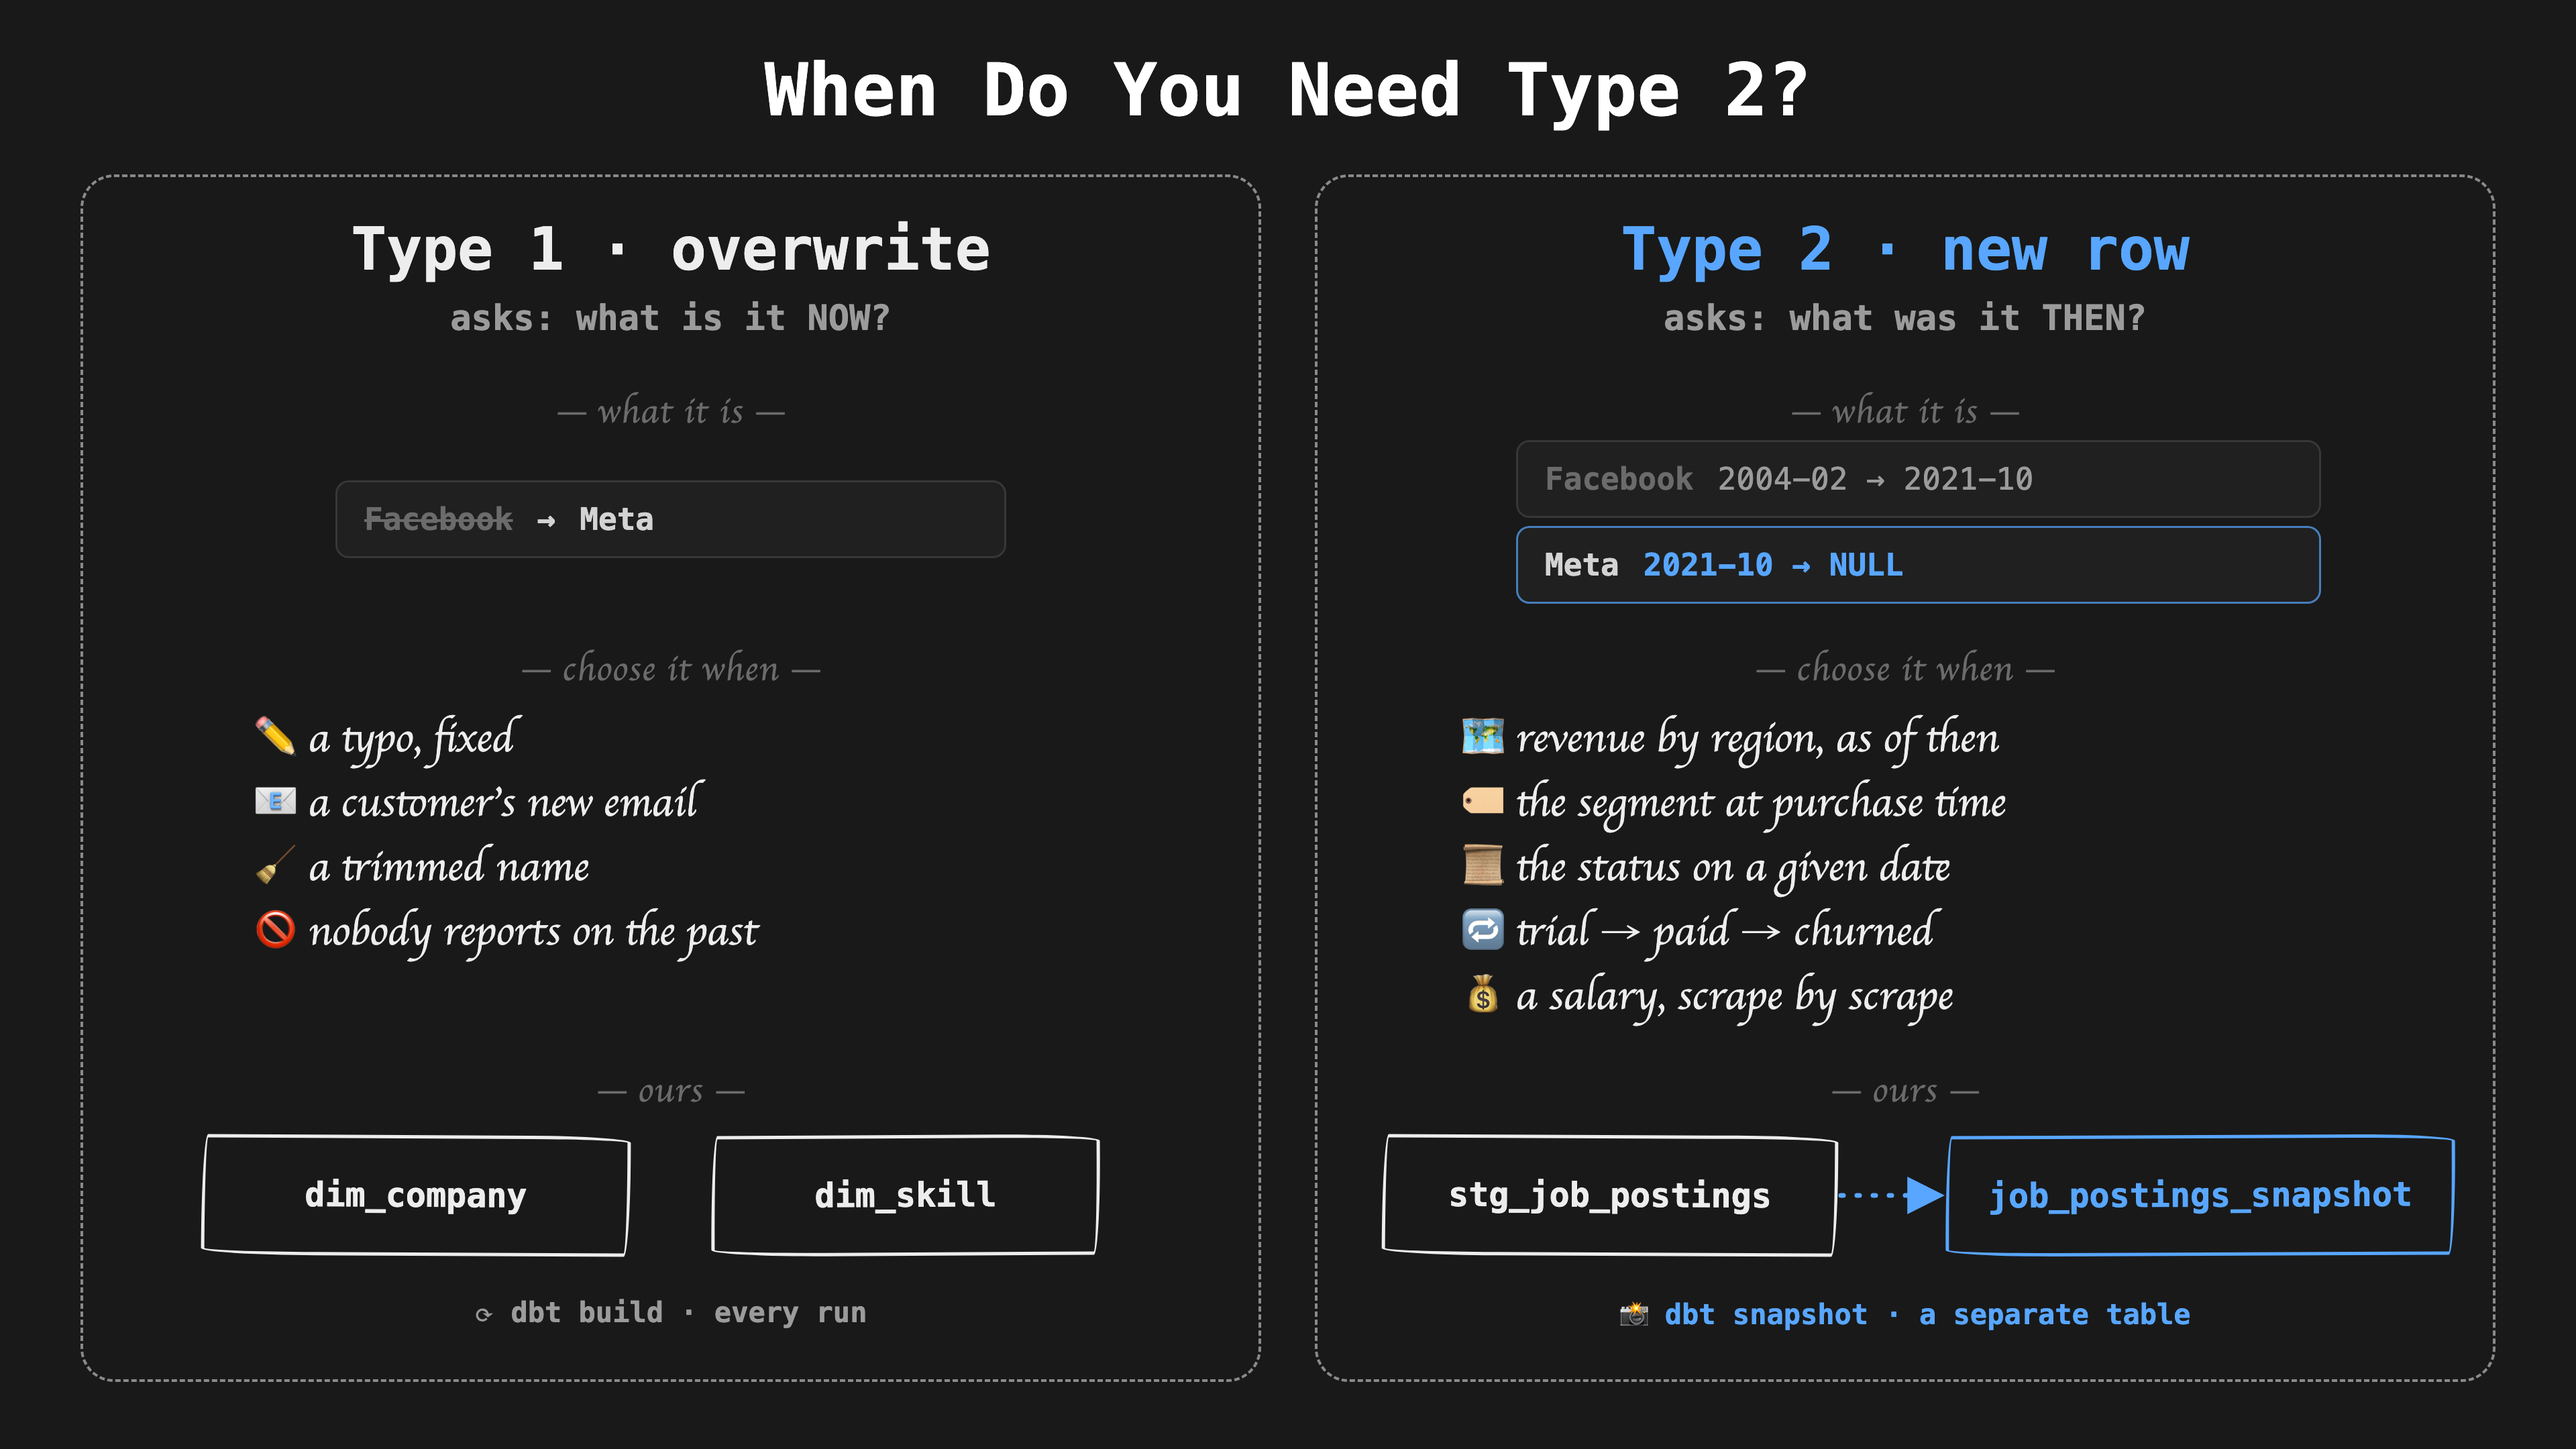
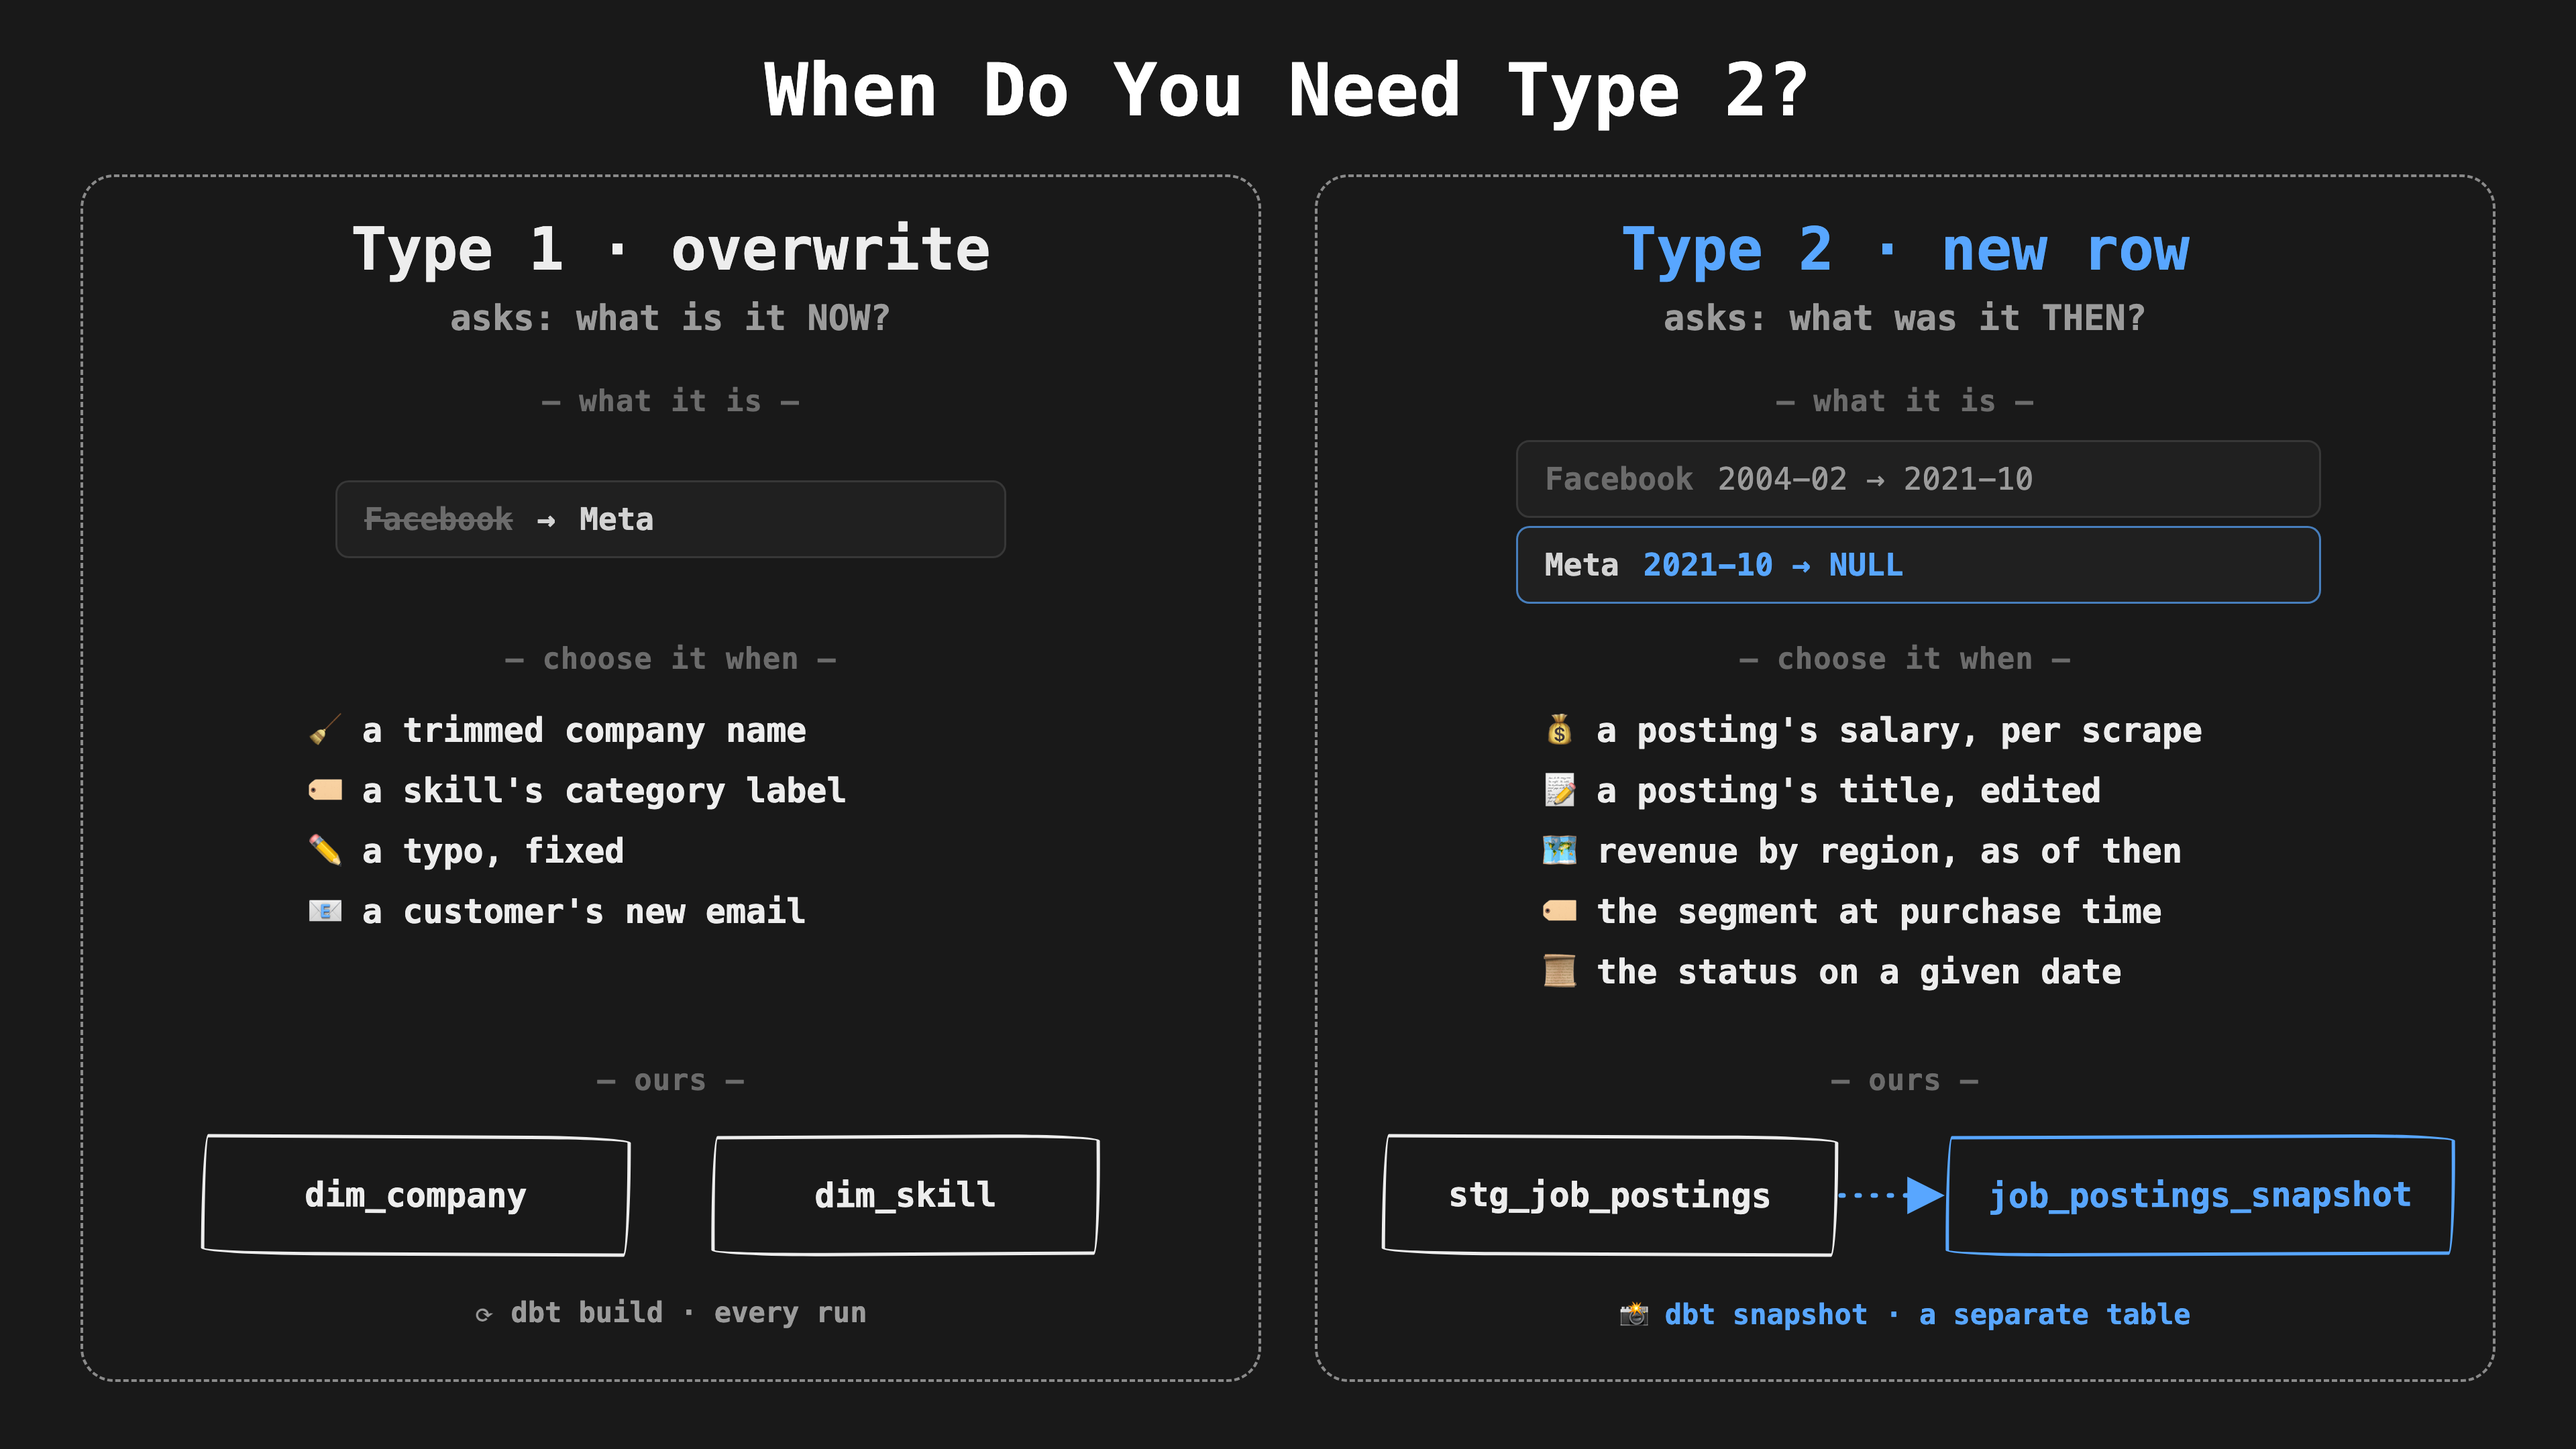
3.11_when_type2 v2: mono lists and section labels, centered blocks, our examples first
Luke: 'not sure on why we are using this medieval font... options could be centered
better... give examples more related to our dataset first, then get more general'.

diff --git a/resources/diagrams/3.11_when_type2.html b/resources/diagrams/3.11_when_type2.html
@@ -21,8 +21,8 @@
   .zone{position:absolute;box-sizing:border-box;border:2px dashed #8a8a8a;border-radius:25px}
   .ztitle{position:absolute;font-family:var(--mono);font-size:44px;font-weight:700;text-align:center}
   .zq{position:absolute;font-family:var(--mono);font-size:26px;font-weight:600;text-align:center;color:var(--muted)}
-  .sect{position:absolute;font-family:var(--hand);font-size:26px;color:var(--faint);text-align:center;letter-spacing:.03em}
-  .lbl{position:absolute;font-family:var(--hand);font-size:31px;color:var(--ink);line-height:1.55;text-align:left}
+  .sect{position:absolute;font-family:var(--mono);font-size:22px;font-weight:600;color:var(--faint);text-align:center;letter-spacing:.02em}
+  .lbl{position:absolute;font-family:var(--mono);font-size:25px;font-weight:600;color:var(--ink);line-height:1.8;text-align:left}
   /* a row of a table */
   .row{position:absolute;box-sizing:border-box;height:58px;border-radius:10px;background:var(--panel);
     border:1.5px solid var(--line);display:flex;align-items:center;gap:18px;padding:0 20px;
@@ -54,7 +54,7 @@
   <div class="row" style="left:250px;top:358px;width:500px"><span class="old">Facebook</span><span>→</span><span>Meta</span></div>
 
   <div class="sect" style="left:60px;top:478px;width:880px">— choose it when —</div>
-  <div class="lbl" style="left:190px;top:526px;width:640px">✏ a typo, fixed<br>📧 a customer's new email<br>🧹 a trimmed name<br>🚫 nobody reports on the past</div>
+  <div class="lbl" style="left:230px;top:522px;width:560px">🧹 a trimmed company name<br>🏷 a skill's category label<br>✏ a typo, fixed<br>📧 a customer's new email</div>
 
   <div class="sect" style="left:60px;top:792px;width:880px">— ours —</div>
   <div class="chip" style="left:150px;top:846px;width:320px;height:90px;transform:rotate(.3deg)">dim_company</div>
@@ -71,7 +71,7 @@
   <div class="row cur" style="left:1130px;top:392px;width:600px"><span>Meta</span><span class="d">2021-10 → NULL</span></div>
 
   <div class="sect" style="left:980px;top:478px;width:880px">— choose it when —</div>
-  <div class="lbl" style="left:1090px;top:526px;width:700px">🗺 revenue by region, as of then<br>🏷 the segment at purchase time<br>📜 the status on a given date<br>🔁 trial → paid → churned<br>💰 a salary, scrape by scrape</div>
+  <div class="lbl" style="left:1150px;top:522px;width:560px">💰 a posting's salary, per scrape<br>📝 a posting's title, edited<br>🗺 revenue by region, as of then<br>🏷 the segment at purchase time<br>📜 the status on a given date</div>
 
   <div class="sect" style="left:980px;top:792px;width:880px">— ours —</div>
   <div class="chip" style="left:1030px;top:846px;width:340px;height:90px;transform:rotate(.25deg)">stg_job_postings</div>
